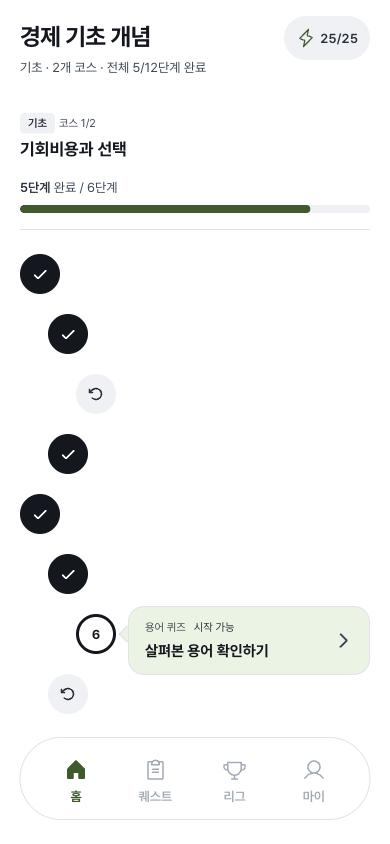
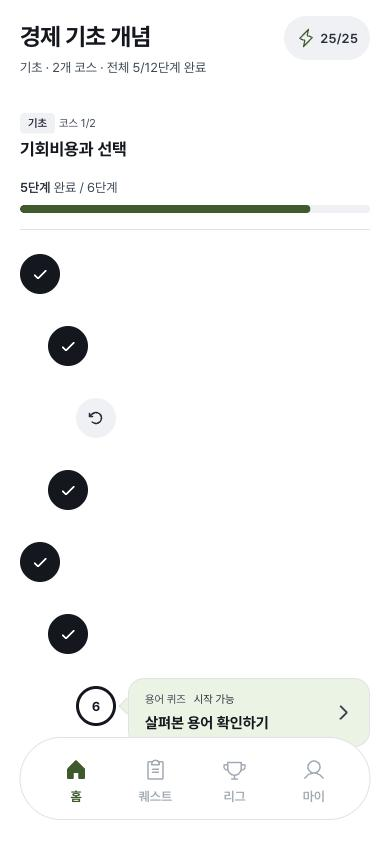
주제 화면 징검다리 돌 사이 세로 간격 넓힘(돌 사이 20px에서 32px)

Changed region(s): [[0.0308, 0.4929, 0.9538, 0.8934], [0.1231, 0.3697, 0.2462, 0.4313], [0.2154, 0.4621, 0.2769, 0.4929]]

diff --git a/src/index.css b/src/index.css
@@ -1121,6 +1121,8 @@ button.course-home-rail-card:active { background: var(--color-surface); }
 .course-steps .course-step { padding-left: var(--step-indent, 0px); }
 .course-steps .course-step:nth-child(4n + 2), .course-steps .course-step:nth-child(4n + 4) { --step-indent: 28px; }
 .course-steps .course-step:nth-child(4n + 3) { --step-indent: 56px; }
+/* 돌 사이 세로 간격(말풍선 높이 64px가 다음 돌과 겹치지 않을 만큼) */
+.course-steps .course-step + .course-step { margin-top: var(--space-6); }
 .course-step[data-step-state='done']:not(:last-child)::before { background: var(--color-progress); }
 .course-step-marker { width: 40px; height: 40px; margin-top: var(--space-2); border: 0; background: var(--color-neutral-soft); color: var(--color-ink-2); font-size: var(--font-size-label); }
 .course-step[data-step-state='done'] .course-step-marker { background: var(--color-neutral-strong); color: var(--color-card); }
